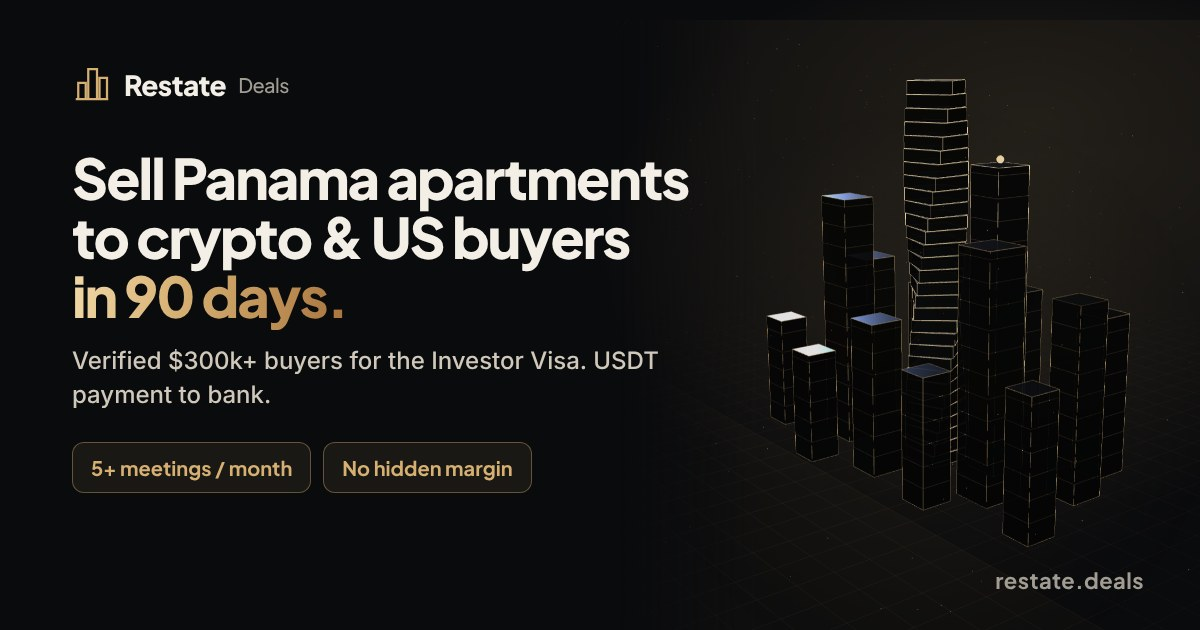
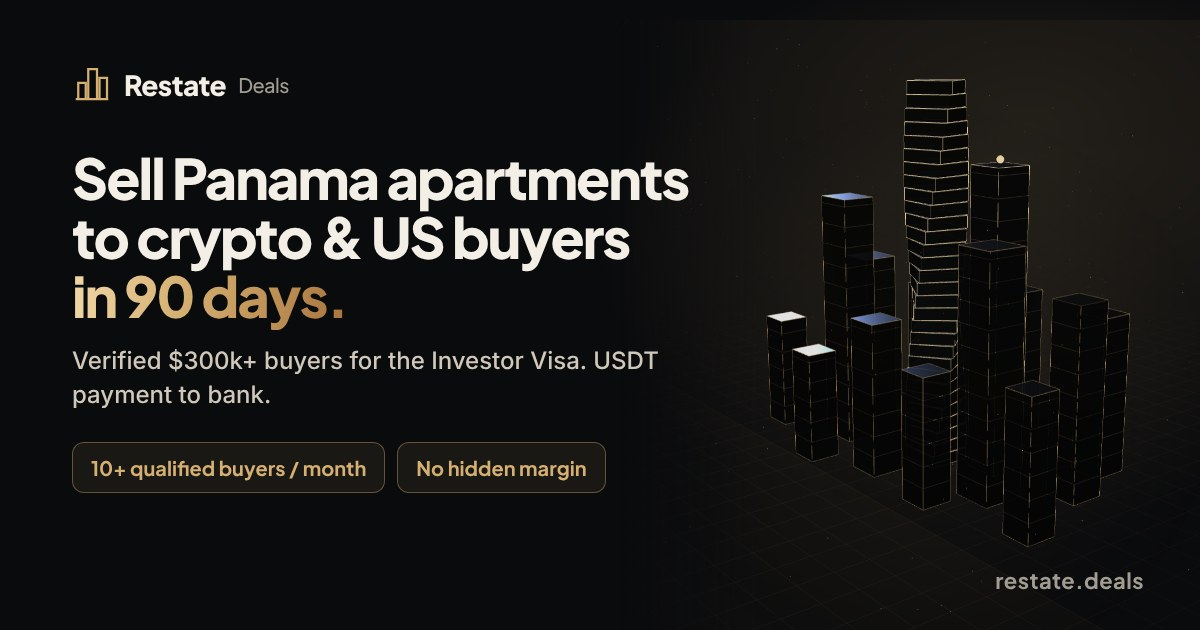
restate.deals: plan guarantees 10+ / 15+ / 30+ qualified buyers a month; link previews updated
Claude-Session: https://claude.ai/code/session_01LeM8CA7onLEPkCA6EuCgbG

Changed region(s): [[0.0617, 0.6937, 0.4933, 0.7841]]

diff --git a/real-estate-developers/ru/index.html b/real-estate-developers/ru/index.html
@@ -19,7 +19,7 @@
 <meta property="og:site_name" content="Restate Deals">
 <meta property="og:url" content="https://restate.deals/ru/">
 <meta property="og:title" content="Restate Deals: продаём квартиры в Панаме крипто-покупателям и клиентам из США за 90 дней">
-<meta property="og:description" content="Проверенные покупатели с $300k+ под инвесторскую визу Панамы. Оплата в USDT на банковский счёт. 5+ встреч с покупателями в месяц или +1 месяц бесплатно.">
+<meta property="og:description" content="Проверенные покупатели с $300k+ под инвесторскую визу Панамы. Оплата в USDT на банковский счёт. 10+ квалифицированных покупателей в месяц или +1 месяц бесплатно.">
 <meta property="og:image" content="https://restate.deals/og-ru.jpg">
 <meta property="og:image:width" content="1200">
 <meta property="og:image:height" content="630">
@@ -1026,7 +1026,7 @@ const PKG=[
          T("Direct AI messages to verified crypto founders","Mensajes con IA a fundadores crypto verificados","AI-сообщения проверенным крипто-фаундерам"),
          T("A paid ad channel: Telegram Ads or Meta Ads","Un canal de anuncios: Telegram Ads o Meta Ads","Рекламный канал: Telegram Ads или Meta Ads"),
          T("Legal setup to accept USDT / crypto directly to your bank","Configuración legal para recibir USDT / crypto en su banco","Легальная настройка приёма USDT / крипты на ваш банк")],
-  goal:T("5+ verified buyer meetings per month","5+ reuniones verificadas por mes","5+ встреч с проверенными покупателями в месяц"),
+  goal:T("10+ qualified buyers per month","10+ compradores calificados al mes","10+ квалифицированных покупателей в месяц"),
   cta:T("Select Starter","Elegir Starter","Выбрать Starter")},
  {id:"growth",name:"Growth",step:T("Plan 2","Plan 2","План 2"),sub:T("Omnichannel scale","Escala omnicanal","Масштаб во всех каналах"),feat:true,
   cap:[T("Dedicated PM + full campaign team","PM dedicado + equipo completo de campañas","Персональный PM + вся команда кампаний"),T("Hours flexible across all channels","Horas flexibles en todos los canales","Часы можно тратить на любые каналы")],
@@ -1034,7 +1034,7 @@ const PKG=[
          T("Multi-channel ads: Telegram Ads + Meta + Google Search","Anuncios multicanal: Telegram Ads + Meta + Google Search","Реклама в нескольких каналах: Telegram Ads + Meta + Google Search"),
          T("Founder content machine and crypto PR placements","Máquina de contenido del fundador y PR crypto","Контент-машина основателя и крипто-PR"),
          T("VIP fly-in tour funnel for buyers flying to Panama","Embudo de tour VIP para compradores que vuelan a Panamá","Воронка VIP-тура для покупателей, летящих в Панаму")],
-  goal:T("10+ verified buyer meetings per month","10+ reuniones verificadas por mes","10+ встреч с проверенными покупателями в месяц"),
+  goal:T("15+ qualified buyers per month","15+ compradores calificados al mes","15+ квалифицированных покупателей в месяц"),
   cta:T("Select Growth","Elegir Growth","Выбрать Growth")},
  {id:"enterprise",name:"Enterprise",step:T("Plan 3","Plan 3","План 3"),sub:T("Full sales desk","Departamento de ventas completo","Полный отдел продаж"),
   cap:[T("Full outsourced international department","Departamento internacional completo externalizado","Целый международный отдел на аутсорсе"),T("Priority execution and unlimited strategy syncs","Ejecución prioritaria y reuniones de estrategia ilimitadas","Приоритетное выполнение и созвоны по стратегии без лимита")],
@@ -1042,7 +1042,7 @@ const PKG=[
          T("Complete mix: AI outreach, ads, SEO, influencers / KOLs, PR and video","Mix completo: outreach con IA, anuncios, SEO, influencers / KOLs, PR y video","Полный набор: AI-рассылки, реклама, SEO, блогеры / KOL, PR и видео"),
          T("Full legal, banking (TowerBank) and escrow onboarding","Onboarding legal, bancario (TowerBank) y escrow completo","Полное юридическое, банковское (TowerBank) и эскроу-сопровождение"),
          T("VIP concierge on the ground: yachts, helicopters, private site visits","Concierge VIP en Panamá: yates, helicópteros, visitas privadas","VIP-консьерж на месте: яхты, вертолёты, частные показы")],
-  goal:T("25+ verified buyer meetings per month","25+ reuniones verificadas por mes","25+ встреч с проверенными покупателями в месяц"),
+  goal:T("30+ qualified buyers per month","30+ compradores calificados al mes","30+ квалифицированных покупателей в месяц"),
   cta:T("Talk to Founder","Hablar con el fundador","Поговорить с основателем")}
 ];
 const SVC=[["send",T("AI outreach & BD","Outreach con IA y BD","AI-рассылки и BD")],["search",T("SEO + AI SEO / GEO / AEO","SEO + AI SEO / GEO / AEO","SEO + AI SEO / GEO / AEO")],["wallet",T("Wallet-based targeting ads","Anuncios segmentados por wallet","Реклама по криптокошелькам (wallet-based)")],["megaphone",T("Telegram Ads & crypto channels","Telegram Ads y canales crypto","Telegram Ads и крипто-каналы")],["target",T("Meta & Google Ads","Meta y Google Ads","Реклама Meta и Google")],["globe",T("Crypto networks & in-app ads","Redes de anuncios crypto e in-app","Крипто-рекламные сети и in-app реклама")],["users",T("KOLs: Telegram, X & YouTube","KOLs: Telegram, X y YouTube","KOL и блогеры: Telegram, X, YouTube")],["handshake",T("Web3 partnerships","Alianzas Web3","Web3-партнёрства")],["newspaper",T("Crypto PR & media","PR crypto y medios","Крипто-PR и СМИ")],["file-text",T("Reddit, Quora & Medium","Reddit, Quora y Medium","Reddit, Quora и Medium")],["star",T("Reputation & organic reviews","Reputación y reseñas orgánicas","Репутация и органические отзывы")],["video",T("Content machine & founder brand","Máquina de contenido y marca del fundador","Контент-машина и личный бренд")],["building-2",T("Landing pages & VIP websites","Landing pages y sitios VIP","Лендинги и VIP-сайты")]];

diff --git a/real-estate-developers/es/index.html b/real-estate-developers/es/index.html
@@ -19,7 +19,7 @@
 <meta property="og:site_name" content="Restate Deals">
 <meta property="og:url" content="https://restate.deals/es/">
 <meta property="og:title" content="Restate Deals: venda apartamentos en Panamá a compradores crypto y de EE.UU. en 90 días">
-<meta property="og:description" content="Compradores verificados con $300k+ para la Visa de Inversionista de Panamá. Pago en USDT a su banco. 5+ reuniones con compradores al mes o +1 mes gratis.">
+<meta property="og:description" content="Compradores verificados con $300k+ para la Visa de Inversionista de Panamá. Pago en USDT a su banco. 10+ compradores calificados al mes o +1 mes gratis.">
 <meta property="og:image" content="https://restate.deals/og-es.jpg">
 <meta property="og:image:width" content="1200">
 <meta property="og:image:height" content="630">
@@ -1026,7 +1026,7 @@ const PKG=[
          T("Direct AI messages to verified crypto founders","Mensajes con IA a fundadores crypto verificados","AI-сообщения проверенным крипто-фаундерам"),
          T("A paid ad channel: Telegram Ads or Meta Ads","Un canal de anuncios: Telegram Ads o Meta Ads","Рекламный канал: Telegram Ads или Meta Ads"),
          T("Legal setup to accept USDT / crypto directly to your bank","Configuración legal para recibir USDT / crypto en su banco","Легальная настройка приёма USDT / крипты на ваш банк")],
-  goal:T("5+ verified buyer meetings per month","5+ reuniones verificadas por mes","5+ встреч с проверенными покупателями в месяц"),
+  goal:T("10+ qualified buyers per month","10+ compradores calificados al mes","10+ квалифицированных покупателей в месяц"),
   cta:T("Select Starter","Elegir Starter","Выбрать Starter")},
  {id:"growth",name:"Growth",step:T("Plan 2","Plan 2","План 2"),sub:T("Omnichannel scale","Escala omnicanal","Масштаб во всех каналах"),feat:true,
   cap:[T("Dedicated PM + full campaign team","PM dedicado + equipo completo de campañas","Персональный PM + вся команда кампаний"),T("Hours flexible across all channels","Horas flexibles en todos los canales","Часы можно тратить на любые каналы")],
@@ -1034,7 +1034,7 @@ const PKG=[
          T("Multi-channel ads: Telegram Ads + Meta + Google Search","Anuncios multicanal: Telegram Ads + Meta + Google Search","Реклама в нескольких каналах: Telegram Ads + Meta + Google Search"),
          T("Founder content machine and crypto PR placements","Máquina de contenido del fundador y PR crypto","Контент-машина основателя и крипто-PR"),
          T("VIP fly-in tour funnel for buyers flying to Panama","Embudo de tour VIP para compradores que vuelan a Panamá","Воронка VIP-тура для покупателей, летящих в Панаму")],
-  goal:T("10+ verified buyer meetings per month","10+ reuniones verificadas por mes","10+ встреч с проверенными покупателями в месяц"),
+  goal:T("15+ qualified buyers per month","15+ compradores calificados al mes","15+ квалифицированных покупателей в месяц"),
   cta:T("Select Growth","Elegir Growth","Выбрать Growth")},
  {id:"enterprise",name:"Enterprise",step:T("Plan 3","Plan 3","План 3"),sub:T("Full sales desk","Departamento de ventas completo","Полный отдел продаж"),
   cap:[T("Full outsourced international department","Departamento internacional completo externalizado","Целый международный отдел на аутсорсе"),T("Priority execution and unlimited strategy syncs","Ejecución prioritaria y reuniones de estrategia ilimitadas","Приоритетное выполнение и созвоны по стратегии без лимита")],
@@ -1042,7 +1042,7 @@ const PKG=[
          T("Complete mix: AI outreach, ads, SEO, influencers / KOLs, PR and video","Mix completo: outreach con IA, anuncios, SEO, influencers / KOLs, PR y video","Полный набор: AI-рассылки, реклама, SEO, блогеры / KOL, PR и видео"),
          T("Full legal, banking (TowerBank) and escrow onboarding","Onboarding legal, bancario (TowerBank) y escrow completo","Полное юридическое, банковское (TowerBank) и эскроу-сопровождение"),
          T("VIP concierge on the ground: yachts, helicopters, private site visits","Concierge VIP en Panamá: yates, helicópteros, visitas privadas","VIP-консьерж на месте: яхты, вертолёты, частные показы")],
-  goal:T("25+ verified buyer meetings per month","25+ reuniones verificadas por mes","25+ встреч с проверенными покупателями в месяц"),
+  goal:T("30+ qualified buyers per month","30+ compradores calificados al mes","30+ квалифицированных покупателей в месяц"),
   cta:T("Talk to Founder","Hablar con el fundador","Поговорить с основателем")}
 ];
 const SVC=[["send",T("AI outreach & BD","Outreach con IA y BD","AI-рассылки и BD")],["search",T("SEO + AI SEO / GEO / AEO","SEO + AI SEO / GEO / AEO","SEO + AI SEO / GEO / AEO")],["wallet",T("Wallet-based targeting ads","Anuncios segmentados por wallet","Реклама по криптокошелькам (wallet-based)")],["megaphone",T("Telegram Ads & crypto channels","Telegram Ads y canales crypto","Telegram Ads и крипто-каналы")],["target",T("Meta & Google Ads","Meta y Google Ads","Реклама Meta и Google")],["globe",T("Crypto networks & in-app ads","Redes de anuncios crypto e in-app","Крипто-рекламные сети и in-app реклама")],["users",T("KOLs: Telegram, X & YouTube","KOLs: Telegram, X y YouTube","KOL и блогеры: Telegram, X, YouTube")],["handshake",T("Web3 partnerships","Alianzas Web3","Web3-партнёрства")],["newspaper",T("Crypto PR & media","PR crypto y medios","Крипто-PR и СМИ")],["file-text",T("Reddit, Quora & Medium","Reddit, Quora y Medium","Reddit, Quora и Medium")],["star",T("Reputation & organic reviews","Reputación y reseñas orgánicas","Репутация и органические отзывы")],["video",T("Content machine & founder brand","Máquina de contenido y marca del fundador","Контент-машина и личный бренд")],["building-2",T("Landing pages & VIP websites","Landing pages y sitios VIP","Лендинги и VIP-сайты")]];

diff --git a/real-estate-developers/en/index.html b/real-estate-developers/en/index.html
@@ -19,7 +19,7 @@
 <meta property="og:site_name" content="Restate Deals">
 <meta property="og:url" content="https://restate.deals/en/">
 <meta property="og:title" content="Restate Deals: sell Panama apartments to crypto &amp; US buyers in 90 days">
-<meta property="og:description" content="Verified $300k+ buyers for the Panama Investor Visa. USDT payment to bank. 5+ buyer meetings a month or +1 month free.">
+<meta property="og:description" content="Verified $300k+ buyers for the Panama Investor Visa. USDT payment to bank. 10+ qualified buyers a month or +1 month free.">
 <meta property="og:image" content="https://restate.deals/og.jpg">
 <meta property="og:image:width" content="1200">
 <meta property="og:image:height" content="630">
@@ -1026,7 +1026,7 @@ const PKG=[
          T("Direct AI messages to verified crypto founders","Mensajes con IA a fundadores crypto verificados","AI-сообщения проверенным крипто-фаундерам"),
          T("A paid ad channel: Telegram Ads or Meta Ads","Un canal de anuncios: Telegram Ads o Meta Ads","Рекламный канал: Telegram Ads или Meta Ads"),
          T("Legal setup to accept USDT / crypto directly to your bank","Configuración legal para recibir USDT / crypto en su banco","Легальная настройка приёма USDT / крипты на ваш банк")],
-  goal:T("5+ verified buyer meetings per month","5+ reuniones verificadas por mes","5+ встреч с проверенными покупателями в месяц"),
+  goal:T("10+ qualified buyers per month","10+ compradores calificados al mes","10+ квалифицированных покупателей в месяц"),
   cta:T("Select Starter","Elegir Starter","Выбрать Starter")},
  {id:"growth",name:"Growth",step:T("Plan 2","Plan 2","План 2"),sub:T("Omnichannel scale","Escala omnicanal","Масштаб во всех каналах"),feat:true,
   cap:[T("Dedicated PM + full campaign team","PM dedicado + equipo completo de campañas","Персональный PM + вся команда кампаний"),T("Hours flexible across all channels","Horas flexibles en todos los canales","Часы можно тратить на любые каналы")],
@@ -1034,7 +1034,7 @@ const PKG=[
          T("Multi-channel ads: Telegram Ads + Meta + Google Search","Anuncios multicanal: Telegram Ads + Meta + Google Search","Реклама в нескольких каналах: Telegram Ads + Meta + Google Search"),
          T("Founder content machine and crypto PR placements","Máquina de contenido del fundador y PR crypto","Контент-машина основателя и крипто-PR"),
          T("VIP fly-in tour funnel for buyers flying to Panama","Embudo de tour VIP para compradores que vuelan a Panamá","Воронка VIP-тура для покупателей, летящих в Панаму")],
-  goal:T("10+ verified buyer meetings per month","10+ reuniones verificadas por mes","10+ встреч с проверенными покупателями в месяц"),
+  goal:T("15+ qualified buyers per month","15+ compradores calificados al mes","15+ квалифицированных покупателей в месяц"),
   cta:T("Select Growth","Elegir Growth","Выбрать Growth")},
  {id:"enterprise",name:"Enterprise",step:T("Plan 3","Plan 3","План 3"),sub:T("Full sales desk","Departamento de ventas completo","Полный отдел продаж"),
   cap:[T("Full outsourced international department","Departamento internacional completo externalizado","Целый международный отдел на аутсорсе"),T("Priority execution and unlimited strategy syncs","Ejecución prioritaria y reuniones de estrategia ilimitadas","Приоритетное выполнение и созвоны по стратегии без лимита")],
@@ -1042,7 +1042,7 @@ const PKG=[
          T("Complete mix: AI outreach, ads, SEO, influencers / KOLs, PR and video","Mix completo: outreach con IA, anuncios, SEO, influencers / KOLs, PR y video","Полный набор: AI-рассылки, реклама, SEO, блогеры / KOL, PR и видео"),
          T("Full legal, banking (TowerBank) and escrow onboarding","Onboarding legal, bancario (TowerBank) y escrow completo","Полное юридическое, банковское (TowerBank) и эскроу-сопровождение"),
          T("VIP concierge on the ground: yachts, helicopters, private site visits","Concierge VIP en Panamá: yates, helicópteros, visitas privadas","VIP-консьерж на месте: яхты, вертолёты, частные показы")],
-  goal:T("25+ verified buyer meetings per month","25+ reuniones verificadas por mes","25+ встреч с проверенными покупателями в месяц"),
+  goal:T("30+ qualified buyers per month","30+ compradores calificados al mes","30+ квалифицированных покупателей в месяц"),
   cta:T("Talk to Founder","Hablar con el fundador","Поговорить с основателем")}
 ];
 const SVC=[["send",T("AI outreach & BD","Outreach con IA y BD","AI-рассылки и BD")],["search",T("SEO + AI SEO / GEO / AEO","SEO + AI SEO / GEO / AEO","SEO + AI SEO / GEO / AEO")],["wallet",T("Wallet-based targeting ads","Anuncios segmentados por wallet","Реклама по криптокошелькам (wallet-based)")],["megaphone",T("Telegram Ads & crypto channels","Telegram Ads y canales crypto","Telegram Ads и крипто-каналы")],["target",T("Meta & Google Ads","Meta y Google Ads","Реклама Meta и Google")],["globe",T("Crypto networks & in-app ads","Redes de anuncios crypto e in-app","Крипто-рекламные сети и in-app реклама")],["users",T("KOLs: Telegram, X & YouTube","KOLs: Telegram, X y YouTube","KOL и блогеры: Telegram, X, YouTube")],["handshake",T("Web3 partnerships","Alianzas Web3","Web3-партнёрства")],["newspaper",T("Crypto PR & media","PR crypto y medios","Крипто-PR и СМИ")],["file-text",T("Reddit, Quora & Medium","Reddit, Quora y Medium","Reddit, Quora и Medium")],["star",T("Reputation & organic reviews","Reputación y reseñas orgánicas","Репутация и органические отзывы")],["video",T("Content machine & founder brand","Máquina de contenido y marca del fundador","Контент-машина и личный бренд")],["building-2",T("Landing pages & VIP websites","Landing pages y sitios VIP","Лендинги и VIP-сайты")]];

diff --git a/real-estate-developers/index.html b/real-estate-developers/index.html
@@ -18,7 +18,7 @@
 <meta property="og:site_name" content="Restate Deals">
 <meta property="og:url" content="https://restate.deals/">
 <meta property="og:title" content="Restate Deals: sell Panama apartments to crypto &amp; US buyers in 90 days">
-<meta property="og:description" content="Verified $300k+ buyers for the Panama Investor Visa. USDT payment to bank. 5+ buyer meetings a month or +1 month free.">
+<meta property="og:description" content="Verified $300k+ buyers for the Panama Investor Visa. USDT payment to bank. 10+ qualified buyers a month or +1 month free.">
 <meta property="og:image" content="https://restate.deals/og.jpg">
 <meta property="og:image:width" content="1200">
 <meta property="og:image:height" content="630">
@@ -1025,7 +1025,7 @@ const PKG=[
          T("Direct AI messages to verified crypto founders","Mensajes con IA a fundadores crypto verificados","AI-сообщения проверенным крипто-фаундерам"),
          T("A paid ad channel: Telegram Ads or Meta Ads","Un canal de anuncios: Telegram Ads o Meta Ads","Рекламный канал: Telegram Ads или Meta Ads"),
          T("Legal setup to accept USDT / crypto directly to your bank","Configuración legal para recibir USDT / crypto en su banco","Легальная настройка приёма USDT / крипты на ваш банк")],
-  goal:T("5+ verified buyer meetings per month","5+ reuniones verificadas por mes","5+ встреч с проверенными покупателями в месяц"),
+  goal:T("10+ qualified buyers per month","10+ compradores calificados al mes","10+ квалифицированных покупателей в месяц"),
   cta:T("Select Starter","Elegir Starter","Выбрать Starter")},
  {id:"growth",name:"Growth",step:T("Plan 2","Plan 2","План 2"),sub:T("Omnichannel scale","Escala omnicanal","Масштаб во всех каналах"),feat:true,
   cap:[T("Dedicated PM + full campaign team","PM dedicado + equipo completo de campañas","Персональный PM + вся команда кампаний"),T("Hours flexible across all channels","Horas flexibles en todos los canales","Часы можно тратить на любые каналы")],
@@ -1033,7 +1033,7 @@ const PKG=[
          T("Multi-channel ads: Telegram Ads + Meta + Google Search","Anuncios multicanal: Telegram Ads + Meta + Google Search","Реклама в нескольких каналах: Telegram Ads + Meta + Google Search"),
          T("Founder content machine and crypto PR placements","Máquina de contenido del fundador y PR crypto","Контент-машина основателя и крипто-PR"),
          T("VIP fly-in tour funnel for buyers flying to Panama","Embudo de tour VIP para compradores que vuelan a Panamá","Воронка VIP-тура для покупателей, летящих в Панаму")],
-  goal:T("10+ verified buyer meetings per month","10+ reuniones verificadas por mes","10+ встреч с проверенными покупателями в месяц"),
+  goal:T("15+ qualified buyers per month","15+ compradores calificados al mes","15+ квалифицированных покупателей в месяц"),
   cta:T("Select Growth","Elegir Growth","Выбрать Growth")},
  {id:"enterprise",name:"Enterprise",step:T("Plan 3","Plan 3","План 3"),sub:T("Full sales desk","Departamento de ventas completo","Полный отдел продаж"),
   cap:[T("Full outsourced international department","Departamento internacional completo externalizado","Целый международный отдел на аутсорсе"),T("Priority execution and unlimited strategy syncs","Ejecución prioritaria y reuniones de estrategia ilimitadas","Приоритетное выполнение и созвоны по стратегии без лимита")],
@@ -1041,7 +1041,7 @@ const PKG=[
          T("Complete mix: AI outreach, ads, SEO, influencers / KOLs, PR and video","Mix completo: outreach con IA, anuncios, SEO, influencers / KOLs, PR y video","Полный набор: AI-рассылки, реклама, SEO, блогеры / KOL, PR и видео"),
          T("Full legal, banking (TowerBank) and escrow onboarding","Onboarding legal, bancario (TowerBank) y escrow completo","Полное юридическое, банковское (TowerBank) и эскроу-сопровождение"),
          T("VIP concierge on the ground: yachts, helicopters, private site visits","Concierge VIP en Panamá: yates, helicópteros, visitas privadas","VIP-консьерж на месте: яхты, вертолёты, частные показы")],
-  goal:T("25+ verified buyer meetings per month","25+ reuniones verificadas por mes","25+ встреч с проверенными покупателями в месяц"),
+  goal:T("30+ qualified buyers per month","30+ compradores calificados al mes","30+ квалифицированных покупателей в месяц"),
   cta:T("Talk to Founder","Hablar con el fundador","Поговорить с основателем")}
 ];
 const SVC=[["send",T("AI outreach & BD","Outreach con IA y BD","AI-рассылки и BD")],["search",T("SEO + AI SEO / GEO / AEO","SEO + AI SEO / GEO / AEO","SEO + AI SEO / GEO / AEO")],["wallet",T("Wallet-based targeting ads","Anuncios segmentados por wallet","Реклама по криптокошелькам (wallet-based)")],["megaphone",T("Telegram Ads & crypto channels","Telegram Ads y canales crypto","Telegram Ads и крипто-каналы")],["target",T("Meta & Google Ads","Meta y Google Ads","Реклама Meta и Google")],["globe",T("Crypto networks & in-app ads","Redes de anuncios crypto e in-app","Крипто-рекламные сети и in-app реклама")],["users",T("KOLs: Telegram, X & YouTube","KOLs: Telegram, X y YouTube","KOL и блогеры: Telegram, X, YouTube")],["handshake",T("Web3 partnerships","Alianzas Web3","Web3-партнёрства")],["newspaper",T("Crypto PR & media","PR crypto y medios","Крипто-PR и СМИ")],["file-text",T("Reddit, Quora & Medium","Reddit, Quora y Medium","Reddit, Quora и Medium")],["star",T("Reputation & organic reviews","Reputación y reseñas orgánicas","Репутация и органические отзывы")],["video",T("Content machine & founder brand","Máquina de contenido y marca del fundador","Контент-машина и личный бренд")],["building-2",T("Landing pages & VIP websites","Landing pages y sitios VIP","Лендинги и VIP-сайты")]];

diff --git a/scripts/build_restate_lang.py b/scripts/build_restate_lang.py
@@ -20,7 +20,7 @@ META = {
         title="Restate Deals | Sell Panama Apartments to Crypto &amp; US Buyers",
         desc="Sell Panama apartments to verified crypto and US buyers with $300k+ for the Investor Visa. AI outreach, ads, PR and VIP tours. USDT payments, no hidden margin.",
         og_title="Restate Deals: sell Panama apartments to crypto &amp; US buyers in 90 days",
-        og_desc="Verified $300k+ buyers for the Panama Investor Visa. USDT payment to bank. 5+ buyer meetings a month or +1 month free.",
+        og_desc="Verified $300k+ buyers for the Panama Investor Visa. USDT payment to bank. 10+ qualified buyers a month or +1 month free.",
         tw_desc="Verified $300k+ buyers for the Panama Investor Visa. USDT payment to bank. No hidden margin.",
     ),
     "es": dict(
@@ -28,7 +28,7 @@ META = {
         title="Restate Deals | Venda apartamentos en Panamá a compradores crypto y de EE.UU.",
         desc="Venda apartamentos en Panamá a compradores verificados del mundo crypto y de EE.UU. con $300k+ para la Visa de Inversionista. Outreach con IA, anuncios, PR y tours VIP. Pagos en USDT, sin márgenes ocultos.",
         og_title="Restate Deals: venda apartamentos en Panamá a compradores crypto y de EE.UU. en 90 días",
-        og_desc="Compradores verificados con $300k+ para la Visa de Inversionista de Panamá. Pago en USDT a su banco. 5+ reuniones con compradores al mes o +1 mes gratis.",
+        og_desc="Compradores verificados con $300k+ para la Visa de Inversionista de Panamá. Pago en USDT a su banco. 10+ compradores calificados al mes o +1 mes gratis.",
         tw_desc="Compradores verificados con $300k+ para la Visa de Inversionista de Panamá. Pago en USDT a su banco. Sin márgenes ocultos.",
     ),
     "ru": dict(
@@ -36,7 +36,7 @@ META = {
         title="Restate Deals | Продажа квартир в Панаме крипто-покупателям и клиентам из США",
         desc="Продаём квартиры застройщиков Панамы проверенным покупателям из крипты и США с $300k+ под инвесторскую визу. AI-аутрич, реклама, PR и VIP-туры. Оплата в USDT, без скрытой маржи.",
         og_title="Restate Deals: продаём квартиры в Панаме крипто-покупателям и клиентам из США за 90 дней",
-        og_desc="Проверенные покупатели с $300k+ под инвесторскую визу Панамы. Оплата в USDT на банковский счёт. 5+ встреч с покупателями в месяц или +1 месяц бесплатно.",
+        og_desc="Проверенные покупатели с $300k+ под инвесторскую визу Панамы. Оплата в USDT на банковский счёт. 10+ квалифицированных покупателей в месяц или +1 месяц бесплатно.",
         tw_desc="Проверенные покупатели с $300k+ под инвесторскую визу Панамы. Оплата в USDT на банковский счёт. Без скрытой маржи.",
     ),
 }

diff --git a/docs/HANDOVER.md b/docs/HANDOVER.md
@@ -92,9 +92,9 @@ GitHub → Actions → «Import CPanama catalog» → Run workflow (ветка `
 
 | План | Цена в месяц | Часы команды | Бюджет на рекламу и фрилансеров (платит клиент) | Цель продаж в месяц | За каждого квалифицированного покупателя | Гарантия |
 |---|---|---|---|---|---|---|
-| Starter | $3,000 (зачёркнуто $5,000) | 30 | около $5,000 | 1 | $250 | 5+ встреч с покупателями или +1 месяц бесплатно |
-| Growth | $6,500 | 70 | около $10,000 | 2–3 | $200 | 10+ встреч или +1 месяц бесплатно |
-| Enterprise | $12,000 | 140 | около $20,000 | 4+ | $150 | 25+ встреч или +1 месяц бесплатно |
+| Starter | $3,000 (зачёркнуто $5,000) | 30 | около $5,000 | 1 | $250 | 10+ квалифицированных покупателей в месяц или +1 месяц бесплатно |
+| Growth | $6,500 | 70 | около $10,000 | 2–3 | $200 | 15+ квалифицированных покупателей или +1 месяц бесплатно |
+| Enterprise | $12,000 | 140 | около $20,000 | 4+ | $150 | 30+ квалифицированных покупателей или +1 месяц бесплатно |
 
 - Оплаты за показы сейчас нет (убрана). Процента с прибыли нет.
 - Блок «Берём только 3 проекта в месяц, 2 заняты» — `CONFIG.capacity`.
